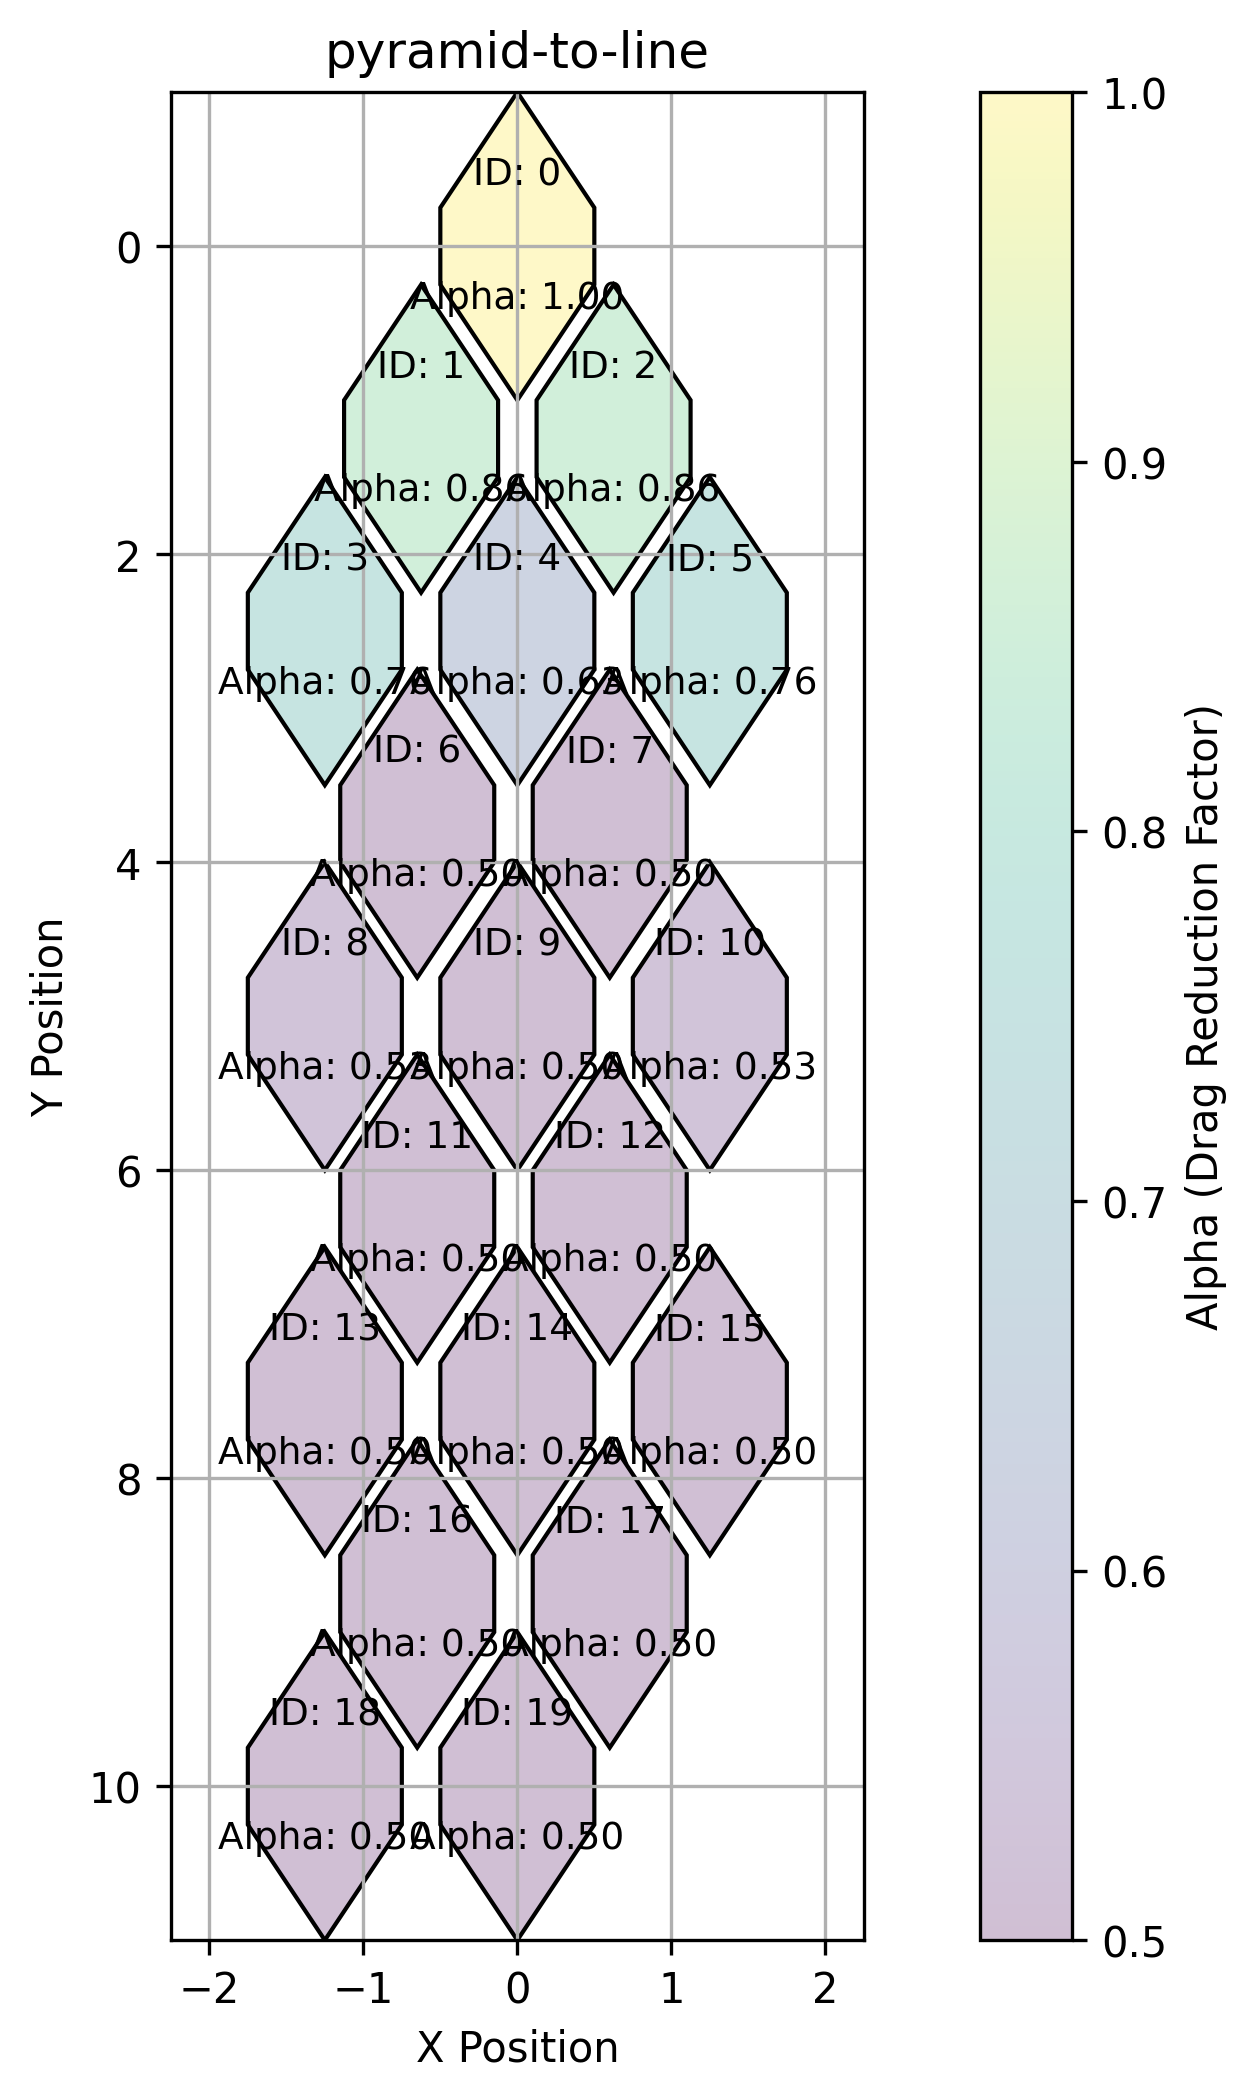
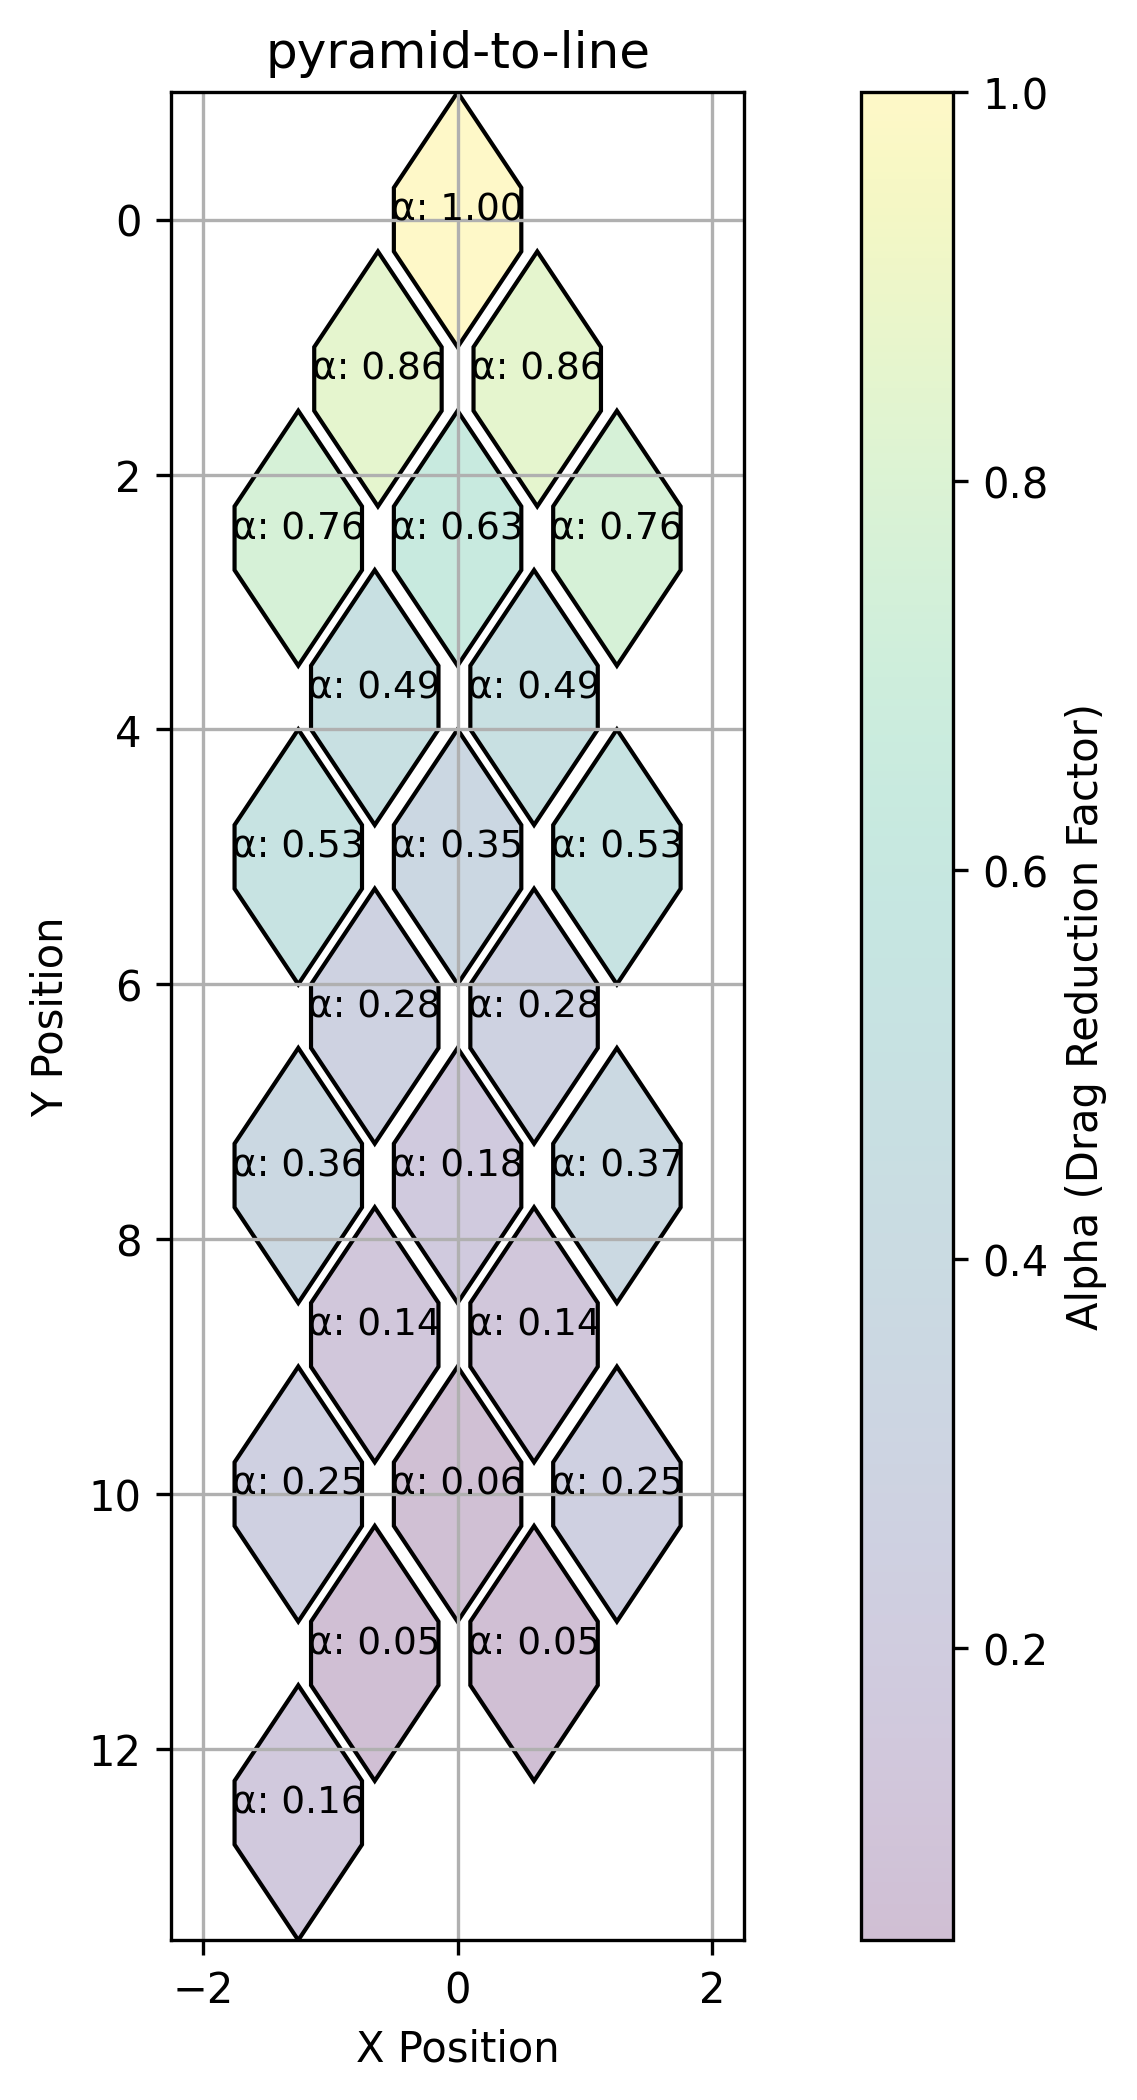
changed images

diff --git a/mathematical model/simulations/run_simulation.py b/mathematical model/simulations/run_simulation.py
@@ -15,9 +15,9 @@ from typing import Callable, List
 from boats.boat import Boat
 from config import SAILING_DISTANCE
 from utils.validate_with_real_experiment import validate_with_real_experiment, find_double_speed, find_single_boat_speed
+from collections import defaultdict
 import csv
 import os
-
 
 def run_simulation_for_formation(
     name: str,
@@ -32,7 +32,7 @@ def run_simulation_for_formation(
 
     print()
 
-    power = calculatePowerUsage(boats, efficency=0.5)
+    power = calculatePowerUsage(boats)
     wh_per_meter = calculateWhPerDistance(boats, distance, power)
     kwh_used = calculateTotalEnergyKWh(boats, distance, power)
 
@@ -46,6 +46,7 @@ def run_simulation_for_formation(
         "Power per Boat (W)": power / number_of_boats,
         "Wh per Meter": wh_per_meter,
         "Total Energy (kWh)": kwh_used,
+        "Speed (m/s)": speed,
     }
 
 def run_simulation(with_plot: bool = False, export_csv: bool = True):
@@ -91,13 +92,13 @@ def run_simulation(with_plot: bool = False, export_csv: bool = True):
             },
             "pyramid-to-line": {
                 "fn": create_pyramid_to_line,
-                "boats": 20,
+                "boats": 24,
                 "distance": 100,
             },
             "v-shape": {
                 "fn": create_v_shape,
-                "boats": 15,
-                "distance": 90,
+                "boats": 24,
+                "distance": 100,
             },
         }
 
@@ -118,6 +119,30 @@ def run_simulation(with_plot: bool = False, export_csv: bool = True):
 
     real_world_results = run_batch(real_world_formations, True)
     validation = validate_with_real_experiment(real_world_results)
+
+    grouped_real_usage = defaultdict(list)
+    for row in validation["valid"] + validation["suspicious"]:
+        key = row["key"]
+        real_kwh = row.get("real_kwh")
+        if real_kwh is None:
+            continue
+        if "singlerun" in key:
+            grouped_real_usage["singlerun"].append(real_kwh)
+        elif "double" in key:
+            grouped_real_usage["double"].append(real_kwh)
+
+    # Compute average real kWh per formation
+    avg_real_usage = {
+        formation: sum(values) / len(values)
+        for formation, values in grouped_real_usage.items()
+        if values
+    }
+
+    # Assign to each row in real_world_results
+    for row in real_world_results:
+        formation = row["Formation"]
+        row["Real Energy (kWh)"] = avg_real_usage.get(formation, "")
+
     print("Valid results", len(validation["valid"]), "Suspicious results", len(validation["suspicious"]))
     generated_results = run_batch(generated_formations, False)
 
@@ -127,15 +152,29 @@ def run_simulation(with_plot: bool = False, export_csv: bool = True):
             def format_row(row):
                 return {
                     k: (
-                        f"{v:.3e}" if isinstance(v, float) and abs(v) < 0.01 else
-                        f"{v:.6f}" if isinstance(v, float) else
+                        f"{v:.3e}" if isinstance(v, float) and abs(v) < 0.1 else
+                        f"{v:.2f}" if isinstance(v, float) else
                         v
                     )
                     for k, v in row.items()
                 }
 
+            fieldnames = [
+                "Formation",
+                "Boats",
+                "Distance",
+                "Speed (m/s)",
+                "Total Power (W)",
+                "Power per Boat (W)",
+                "Wh per Meter",
+                "Total Energy (kWh)",
+            ]
+
+            if path == "out/real_world_results.csv":
+                fieldnames.append("Real Energy (kWh)")
+
             with open(path, "w", newline="") as f:
-                writer = csv.DictWriter(f, fieldnames=data[0].keys())
+                writer = csv.DictWriter(f, fieldnames=fieldnames)
                 writer.writeheader()
                 writer.writerows([format_row(row) for row in data])
 

diff --git a/sailing-experiment/processing/visualize.py b/sailing-experiment/processing/visualize.py
@@ -141,9 +141,16 @@ def plot_singlerun_power_and_speed(speeds: dict, powers: dict, output_name: str)
     ax1.set_ylabel("Power Consumption (kWh)", color="blue")
     ax2.set_ylabel("Speed (m/s)", color="green")
     ax1.set_xticks(positions)
-    ax1.set_xticklabels(labels, rotation=45, ha="right")
-    ax1.set_title("Power and Speed Distribution per Singlerun")
+    ax1.set_xticklabels(["boat-1-individual", "boat-2-individual", "boat-3-individual"], rotation=45, ha="right")
+    ax1.set_title("Power and Speed Distribution for individual Boats")
     ax1.grid(True, axis="y")
+
+    # Set fixed axis limits
+    ax1.set_ylim(0, 0.00175)
+    ax2.set_ylim(0, 0.7)
+
+    # Use scientific notation for ax1 (left axis)
+    ax1.ticklabel_format(style="sci", axis="y", scilimits=(0, 0))
 
     ax1.set_ylim(bottom=0)
     ax2.set_ylim(bottom=0)
@@ -259,9 +266,16 @@ def plot_power_and_speed_comparison_by_boat(power_data: dict, speed_data: dict, 
         ax1.set_ylabel("Power Consumption (kWh)", color="blue")
         ax2.set_ylabel("Speed (m/s)", color="green")
         ax1.set_xticks(positions)
-        ax1.set_xticklabels(labels)
+        ax1.set_xticklabels(["individual", "In front", "Behind"])
         ax1.set_title(f"Boat {boat} — Power and Speed by Position (double)")
         ax1.grid(True, axis="y")
+
+        # Set fixed axis limits
+        ax1.set_ylim(0, 0.00175)
+        ax2.set_ylim(0, 0.7)
+
+        # Use scientific notation for ax1 (left axis)
+        ax1.ticklabel_format(style="sci", axis="y", scilimits=(0, 0))
 
         ax1.set_ylim(bottom=0)
         ax2.set_ylim(bottom=0)
@@ -347,9 +361,16 @@ def plot_formation_comparison(speeds: dict, powers: dict, output_name: str):
     ax1.set_ylabel("Power Consumption (kWh)", color="blue")
     ax2.set_ylabel("Speed (m/s)", color="green")
     ax1.set_xticks(positions)
-    ax1.set_xticklabels(formations, rotation=20)
+    ax1.set_xticklabels(["diagonal_line", "offset_line", "triangle", "boat_1_individual", "boat_3_individual"], rotation=20)
     ax1.set_title("Power and Speed Comparison")
     ax1.grid(True)
+
+    # Set fixed axis limits
+    ax1.set_ylim(0, 0.00175)
+    ax2.set_ylim(0, 0.7)
+
+    # Use scientific notation for ax1 (left axis)
+    ax1.ticklabel_format(style="sci", axis="y", scilimits=(0, 0))
 
     fig.tight_layout()
     os.makedirs(OUT_DIR, exist_ok=True)

diff --git a/mathematical model/utils/visualizer.py b/mathematical model/utils/visualizer.py
@@ -32,8 +32,8 @@ def plot_formation(boats: list[Boat], title: str = "Boat Formation", show_plot: 
         shape = translate_shape(BOAT_SHAPE, *boat.position)
         polygon = patches.Polygon(shape, closed=True, facecolor=color, edgecolor='black')
         ax.add_patch(polygon)
-        ax.text(boat.position[0], boat.position[1] - 0.4, f"ID: {i}", ha='center', fontsize=9)
-        ax.text(boat.position[0], boat.position[1] + 0.4, f"Alpha: {boat.alpha:.2f}", ha='center', fontsize=9)
+        # ax.text(boat.position[0], boat.position[1] - 0.4, f"ID: {i}", ha='center', fontsize=9)
+        ax.text(boat.position[0], boat.position[1], f"α: {boat.alpha:.2f}", ha='center', fontsize=9)
 
     # After drawing all polygons
     all_x = [boat.position[0] for boat in boats]

diff --git a/mathematical model/alpha/rules.py b/mathematical model/alpha/rules.py
@@ -25,4 +25,4 @@ def calculate_alpha(position: tuple[float, float], neighbors: list[tuple[float, 
                 side_influence += 0.5 / distance
 
     raw_alpha = 1.0 - (0.2 * front_influence + 0.1 * side_influence)
-    return max(0.5, min(raw_alpha, 1.0))
+    return max(0.05, min(raw_alpha, 1.0))
